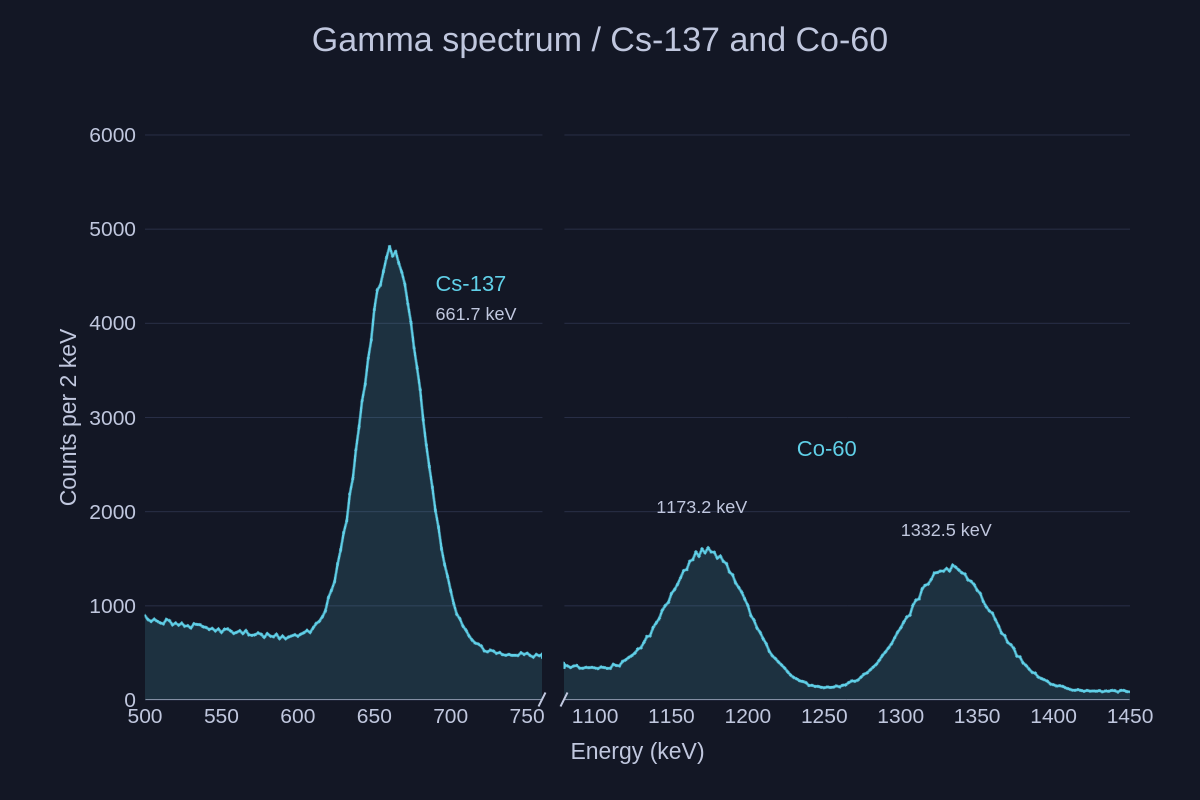
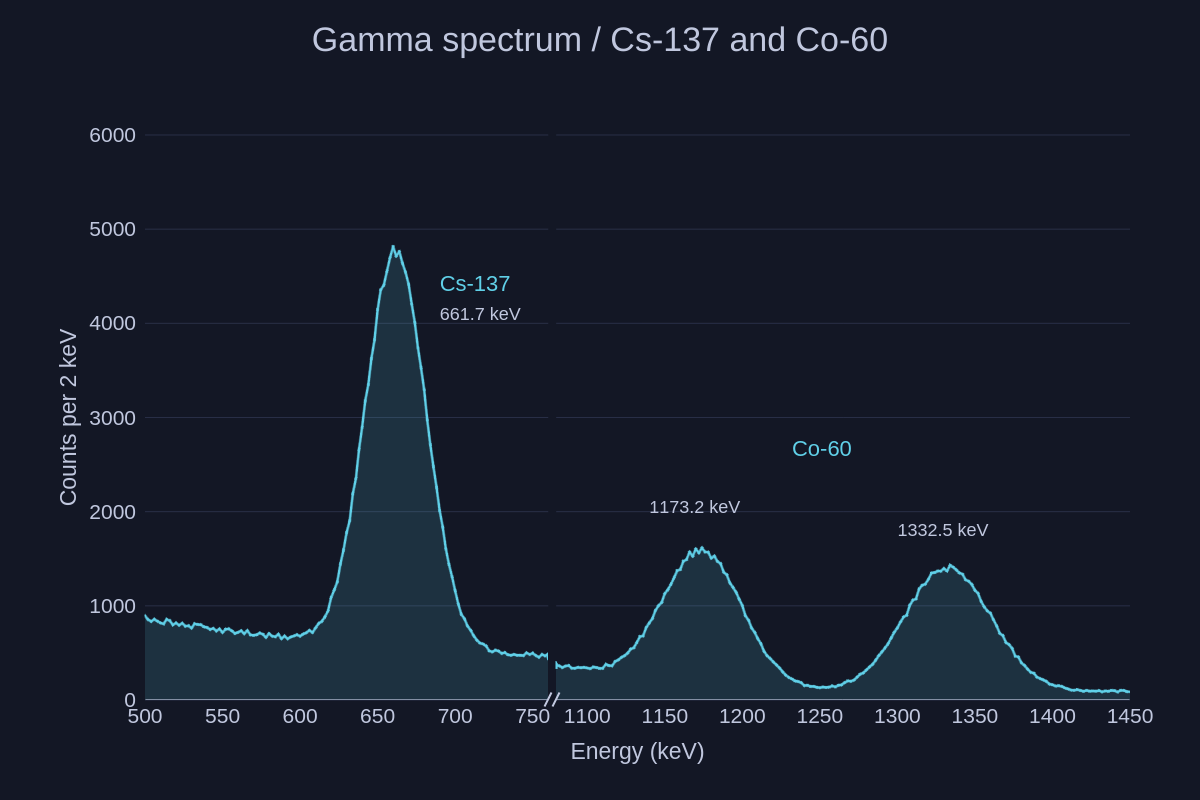
Regenerate the gallery with the #259 fixes (#250)
The broken axis takes the default 8 px gap, the wind rose hides its
calm-circle label, the colourbar titles drop their manual offsets now
that the placement clears the labels, and surface_3d's trail columns get
ids of their own so readme_gallery draws every scene on one renderer.
Every changed image is regenerated with the current renderer: the #259
fixes (colourbar titles, floor contours, hexbin, break gap) and, for
gallery-polar, gallery-polar-compass, gallery-donut and gallery-wind,
renderer changes earlier in 0.19 that the committed assets predate.

Claude-Session: https://claude.ai/code/session_01LMyJRCCGDv3SiZNjkSBuJC

diff --git a/crates/renderer/examples/surface_3d.rs b/crates/renderer/examples/surface_3d.rs
@@ -71,8 +71,6 @@ fn colorbar_title(chart: &mut Chart, title: &str, ink: Color) {
     if let Some(bar) = chart.config_mut().colorbar.as_mut() {
         bar.axis.title_option.visible = true;
         bar.axis.title_option.text = RichText::plain(title, ink, 19., "");
-        // Clear of the tick labels.
-        bar.axis.title_option.offset_y = -11.;
     }
 }
 
@@ -135,9 +133,9 @@ fn terrain(r: &mut Renderer, out: &Path) -> Result {
     tx.push(summit[0]);
     ty.push(summit[1]);
     tz.push(height(summit[0], summit[1]) + 0.06);
-    r.add_column("trail-x", &column(tx))?;
-    r.add_column("trail-y", &column(ty))?;
-    r.add_column("trail-z", &column(tz))?;
+    r.add_column("hike-x", &column(tx))?;
+    r.add_column("hike-y", &column(ty))?;
+    r.add_column("hike-z", &column(tz))?;
     let stops = [trailhead, saddle, summit];
     r.add_column("stop-x", &column(stops.iter().map(|p| p[0]).collect()))?;
     r.add_column("stop-y", &column(stops.iter().map(|p| p[1]).collect()))?;
@@ -203,8 +201,8 @@ fn terrain(r: &mut Renderer, out: &Path) -> Result {
     let trail_red = rgb(206, 44, 58);
     let mut trail = series(
         "trail",
-        "trail-x",
-        "trail-y",
+        "hike-x",
+        "hike-y",
         DataRenderType::Xy(XySeries {
             scatter: None,
             line: Some(line(trail_red, 3.5)),
@@ -212,7 +210,7 @@ fn terrain(r: &mut Renderer, out: &Path) -> Result {
             stem: None,
         }),
     );
-    trail.z_column = Some("trail-z".into());
+    trail.z_column = Some("hike-z".into());
     let mut waypoints = series(
         "waypoints",
         "stop-x",

diff --git a/crates/renderer/examples/polar_plot.rs b/crates/renderer/examples/polar_plot.rs
@@ -458,9 +458,6 @@ fn wave_spectrum(r: &mut Renderer, out: &Path) -> gallery::Result {
         bar.axis.label_style.format = LabelFormat::Plain(PlainNumberFormat::AUTO);
         bar.axis.title_option.visible = true;
         bar.axis.title_option.text = RichText::plain("Energy (dB)", ink, 19.0, "");
-        // Clear of the tick labels: the title's local y runs away from the
-        // strip on a right-hand bar.
-        bar.axis.title_option.offset_y = -28.0;
     }
     let image = export(r, &chart, &series, bg)?;
     save(&image, bg, &out.join("gallery-polar-heatmap.png"))
@@ -566,6 +563,8 @@ fn wind_rose(r: &mut Renderer, out: &Path) -> gallery::Result {
             // Along the south-south-east spoke: the labels sit on its left,
             // over the quiet south-east.
             radial_label_angle_degrees: -67.5,
+            // No 0% on the calm circle's edge (#259).
+            hide_first_radius_label: true,
             ..PolarOptions::default()
         }));
         config.bar_groups = Some(BarGroups {

diff --git a/crates/renderer/examples/heatmap_contours.rs b/crates/renderer/examples/heatmap_contours.rs
@@ -283,9 +283,6 @@ fn hexbin(r: &mut Renderer, out: &Path) -> Result {
     bar.offset_x = -26.0;
     bar.axis.title_option.visible = true;
     bar.axis.title_option.text = RichText::plain("Pickups per cell", ink, 19.0, "");
-    // Clear of the tick labels: the title's local y runs away from the strip
-    // on a right-hand bar.
-    bar.axis.title_option.offset_y = -24.0;
     let image = styled::export(r, &chart, &specs, bg)?;
     styled::save(&image, bg, &out.join("gallery-hexbin.png"))
 }

diff --git a/crates/renderer/examples/trimesh.rs b/crates/renderer/examples/trimesh.rs
@@ -72,8 +72,6 @@ fn colorbar_title(chart: &mut Chart, title: &str, ink: Color) {
     if let Some(bar) = chart.config_mut().colorbar.as_mut() {
         bar.axis.title_option.visible = true;
         bar.axis.title_option.text = RichText::plain(title, ink, 19., "");
-        // Clear of the tick labels.
-        bar.axis.title_option.offset_y = -11.;
         bar.axis.label_style.significant_digits = 1;
     }
 }

diff --git a/crates/renderer/examples/broken_axes.rs b/crates/renderer/examples/broken_axes.rs
@@ -102,7 +102,6 @@ fn gamma_spectrum(r: &mut Renderer, out: &Path) -> Result {
     config.bottom_x.breaks = Some(AxisBreaks {
         ranges: vec![AxisBreak::new(760., 1080.)],
         style: AxisBreakStyle::Continuous,
-        gap_px: 22.,
         mark: BreakMark::Slash {
             size: 14.,
             color: Some(ink),
